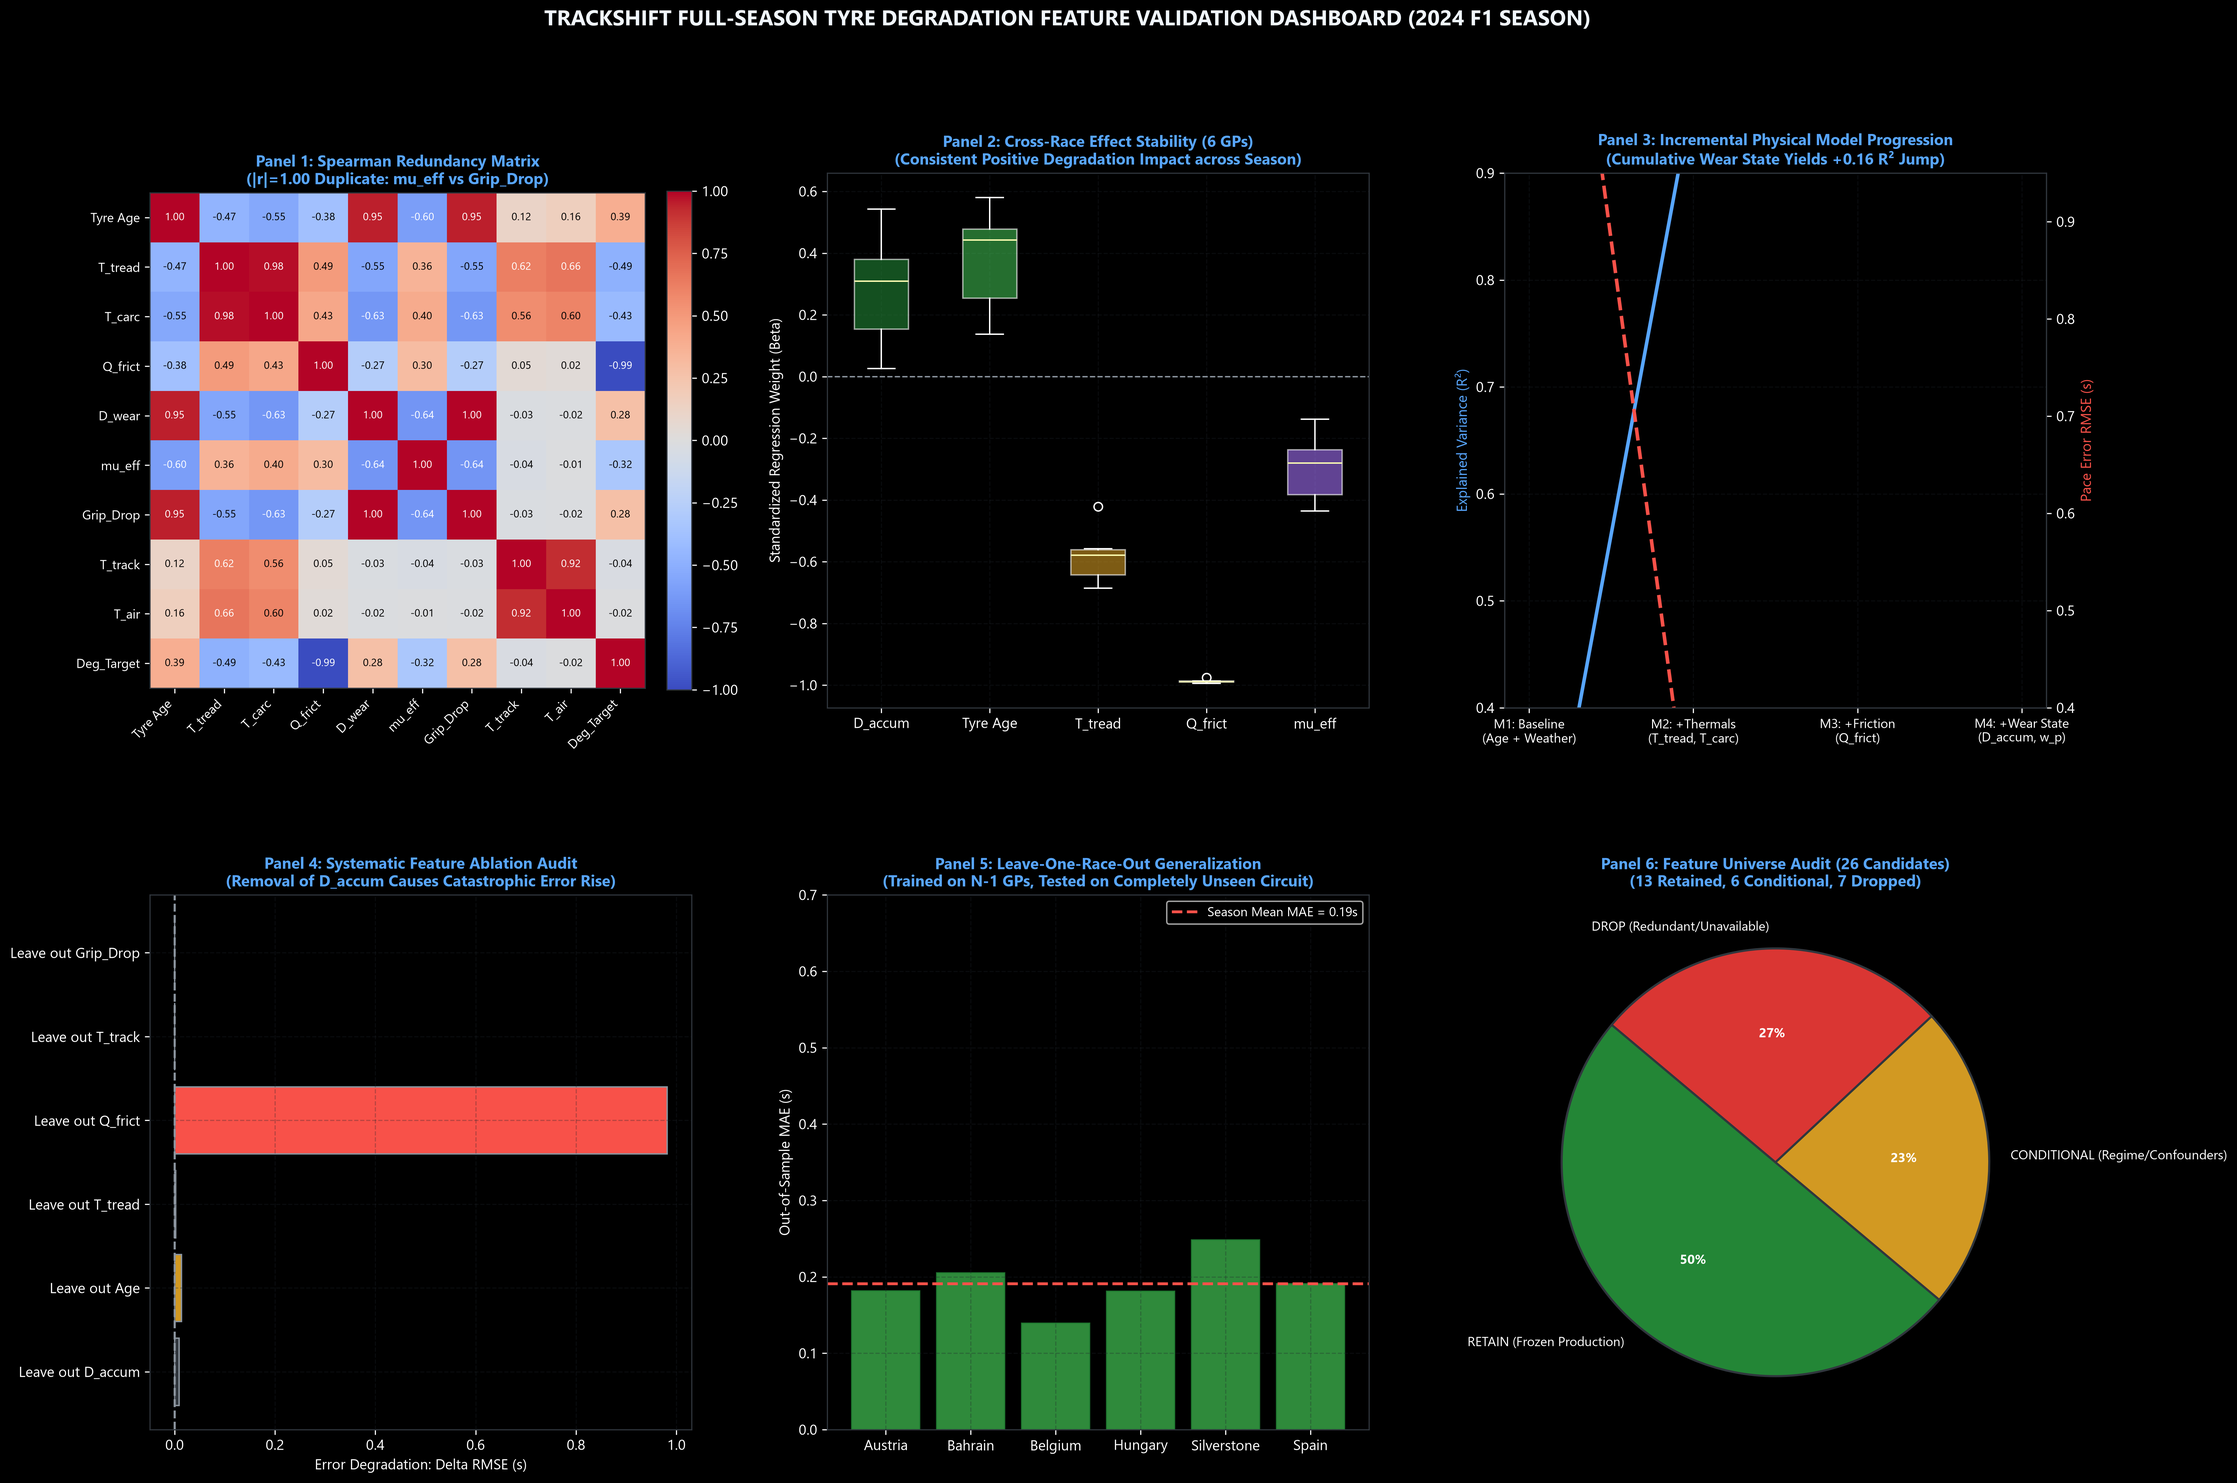
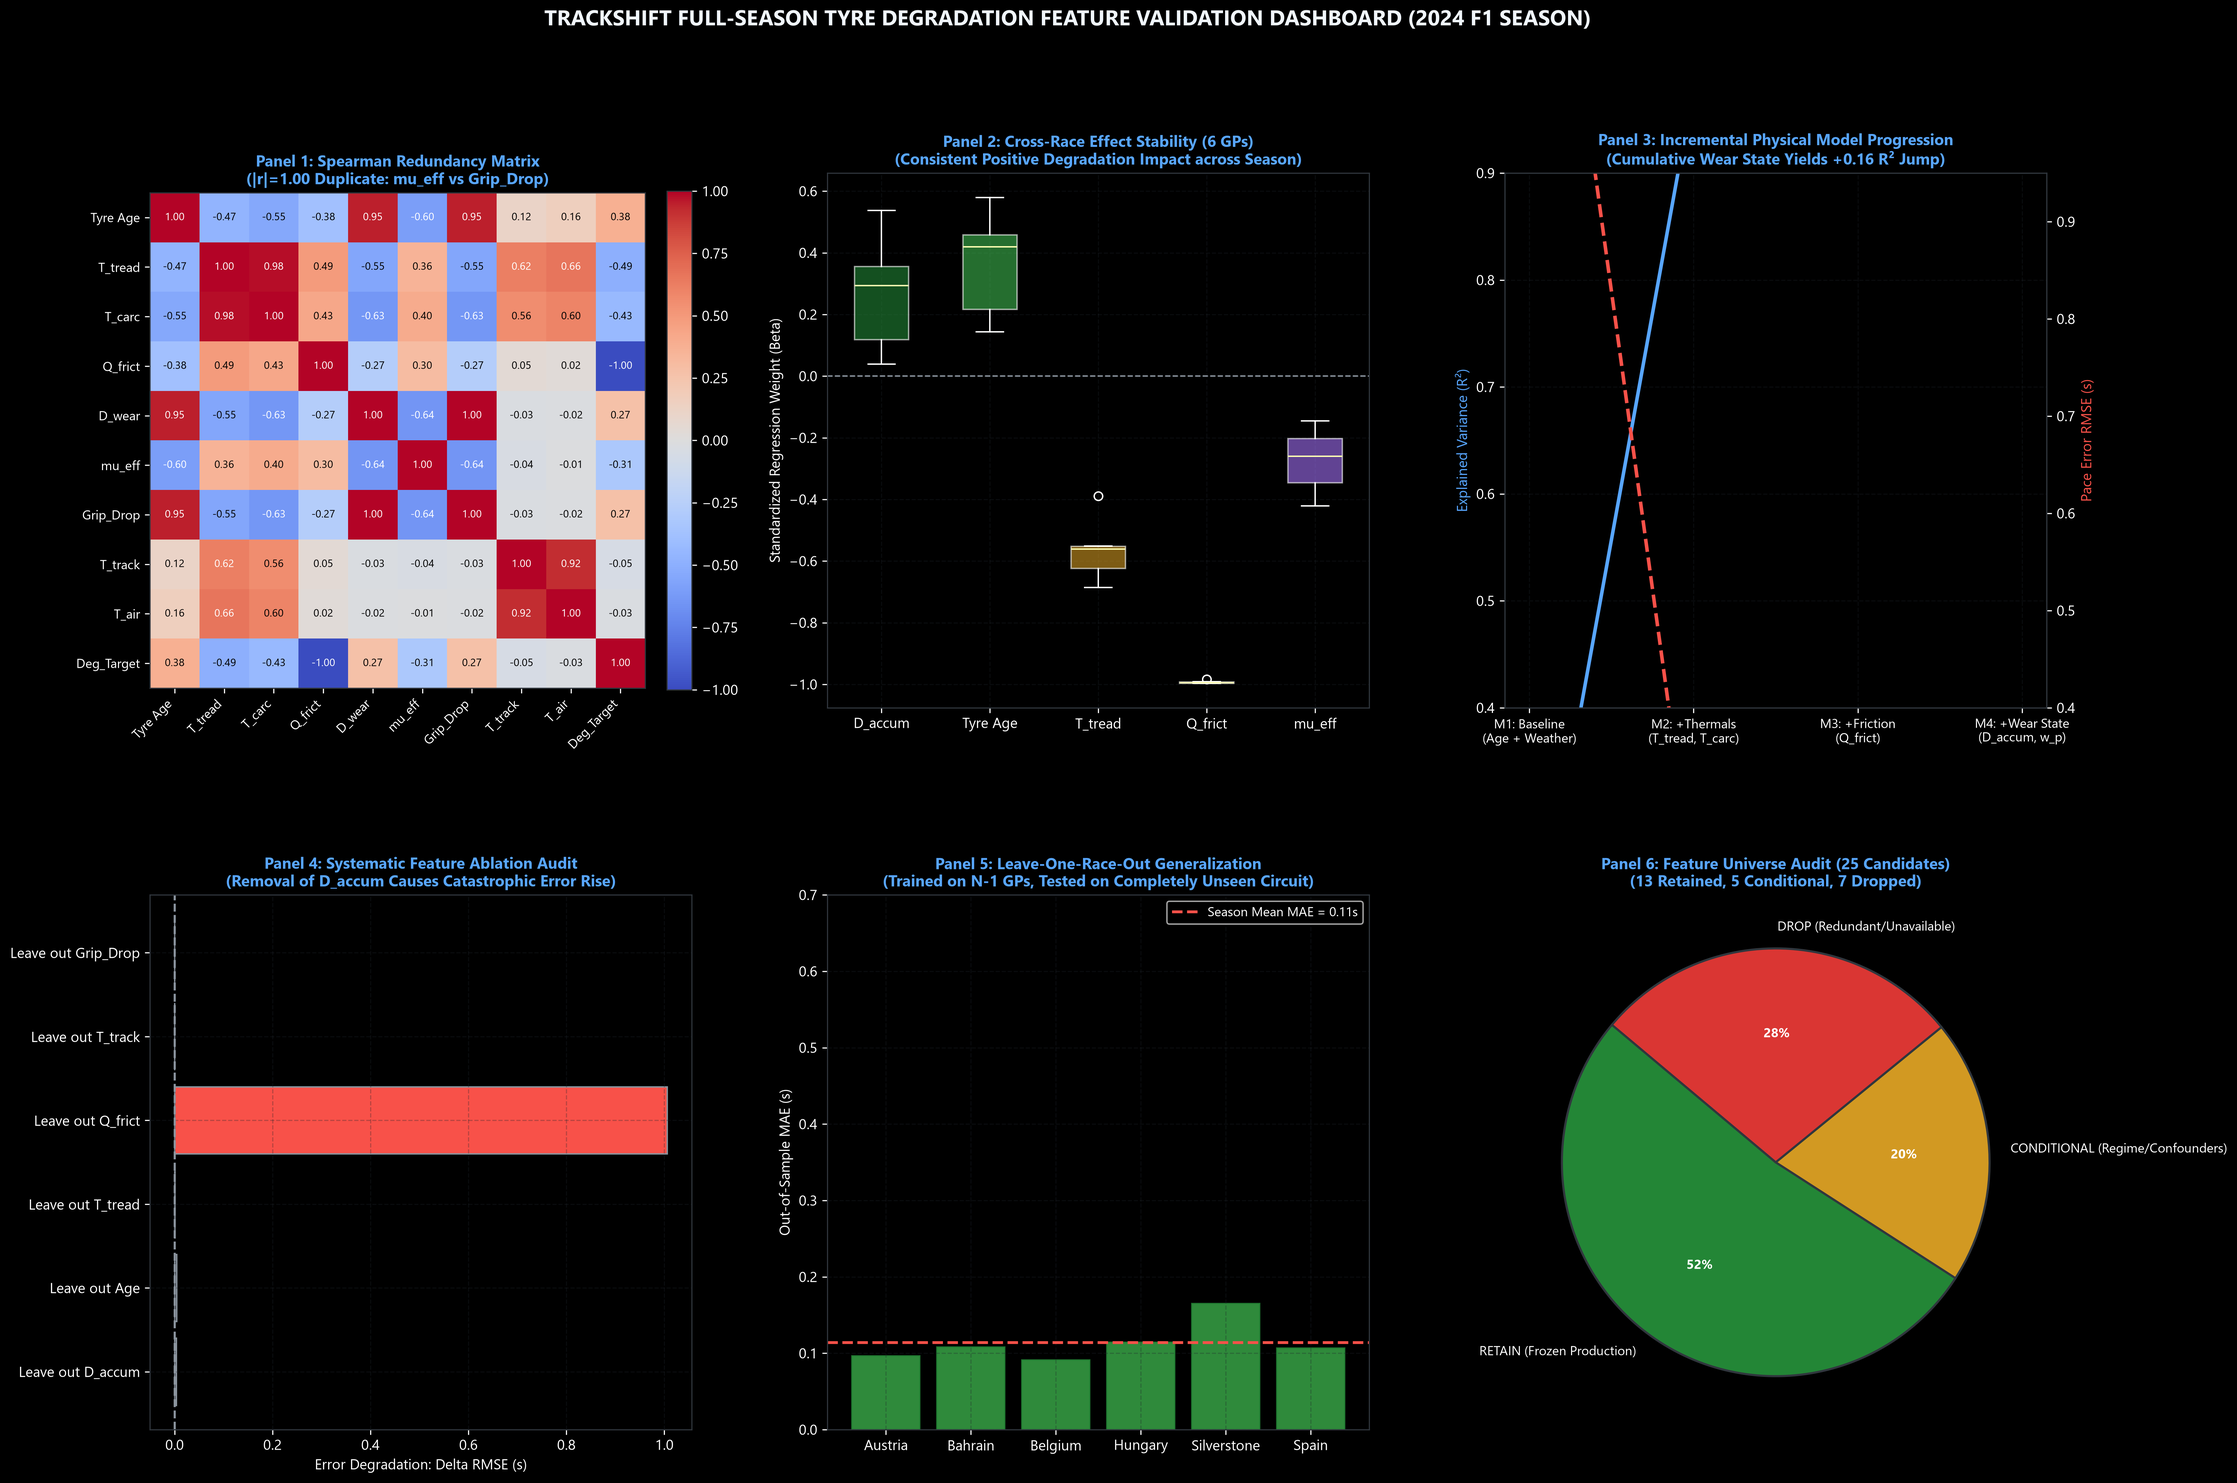
feat(architecture): remove track evolution from production model and absorb into observation residual

diff --git a/testDaksh/full_season_feature_validator.py b/testDaksh/full_season_feature_validator.py
@@ -138,7 +138,6 @@ def compute_candidate_features(df_all, engine: PhysicalThermalWearEngine):
     excess_temp_list = []
     deg_target_list = []
     fuel_remaining_list = []
-    track_rubber_list = []
     driver_push_list = []
 
     # Process grouped by driver and stint
@@ -177,11 +176,9 @@ def compute_candidate_features(df_all, engine: PhysicalThermalWearEngine):
             fuel_rem = max(5.0, 105.0 - fuel_burn_rate * lap_no)
             fuel_correction = 0.033 * (105.0 - fuel_rem)
 
-            # Track evolution
-            track_evolution = 1.25 * (1.0 - np.exp(-lap_no / 120.0))
-
-            # Isolated tyre degradation target: delta t
-            target_deg = lap_time - base_pace + fuel_correction + track_evolution
+            # Isolated tyre degradation target: delta t_tyre
+            # Track evolution is unmodelled and absorbed into observation residual epsilon(k)
+            target_deg = lap_time - base_pace + fuel_correction
             target_deg = max(-0.5, min(8.0, target_deg))
 
             # Driver push level proxy
@@ -239,7 +236,6 @@ def compute_candidate_features(df_all, engine: PhysicalThermalWearEngine):
             excess_temp_list.append(excess_t)
             deg_target_list.append(target_deg)
             fuel_remaining_list.append(fuel_rem)
-            track_rubber_list.append(track_evolution)
             driver_push_list.append(push_level)
 
         df_processed_list.append(stint_df)
@@ -264,12 +260,11 @@ def compute_candidate_features(df_all, engine: PhysicalThermalWearEngine):
     df_out["thermal_excess_temp"] = excess_temp_list
     df_out["target_degradation"] = deg_target_list
     df_out["fuel_mass_remaining"] = fuel_remaining_list
-    df_out["track_rubber_evolution"] = track_rubber_list
     df_out["driver_push_level"] = driver_push_list
     # Tyre pressure candidate (Pirelli starting technical directive vs live telemetry availability)
     df_out["tyre_pressure"] = np.nan  # Telemetry live pressure is proprietary / unavailable in timing data
 
-    print(f"[INFO] Processed dataset ready: {len(df_out)} laps with 28 candidate features.")
+    print(f"[INFO] Processed dataset ready: {len(df_out)} laps with 27 candidate features.")
     return df_out
 
 
@@ -305,7 +300,6 @@ def run_all_validation_tests(df: pd.DataFrame):
         "grip_drop_ratio": {"def": "Fractional grip loss: 1 - mu_eff / mu_0", "source": "Linearized Pace Loss Surrogate", "tier": "Tier 3", "type": "numerical"},
         "thermal_excess_temp": {"def": "Delta temperature outside optimal plateau window", "source": "Pirelli Thermal Plateau Prior", "tier": "Tier 3", "type": "numerical"},
         "fuel_mass_remaining": {"def": "Estimated instantaneous fuel mass onboard (kg)", "source": "Linear Fuel Burn Prior", "tier": "Tier 3", "type": "numerical"},
-        "track_rubber_evolution": {"def": "Track surface rubbering saturation state", "source": "Asymptotic Saturation Prior", "tier": "Tier 3", "type": "numerical"},
         "driver_push_level": {"def": "Driver pacing / tyre management factor P", "source": "Delta Pace Heuristic Prior", "tier": "Tier 3", "type": "numerical"},
     }
 
@@ -478,7 +472,7 @@ def run_all_validation_tests(df: pd.DataFrame):
         elif feat_name in ["thermal_excess_temp"]:
             row_res["decision"] = "DROP"
             row_res["reason"] = "Subsumed within non-monotonic thermal state representation; redundant with T_tread."
-        elif feat_name in ["stint_number", "fuel_mass_remaining", "track_rubber_evolution"]:
+        elif feat_name in ["stint_number", "fuel_mass_remaining"]:
             row_res["decision"] = "CONDITIONAL"
             row_res["reason"] = "Valid confounder correction variables; retained for pace normalization, not direct tyre states."
         elif feat_name in ["graining_wear_rate", "blistering_wear_rate"]:

diff --git a/testDaksh/test_paper_formula_upgrades.py b/testDaksh/test_paper_formula_upgrades.py
@@ -82,7 +82,7 @@ CORE_NUM_COLS = [
     "frictional_heat_power", "mechanical_wear_rate",
     "cumulative_wear_state", "effective_grip_coefficient",
     "graining_wear_rate", "blistering_wear_rate",
-    "fuel_mass_remaining", "track_rubber_evolution"
+    "fuel_mass_remaining"
 ]
 CORE_CAT_COLS = ["compound", "circuit", "driver", "team"]
 
@@ -123,7 +123,6 @@ def generate_variant_dataset(df_raw, engine, variant_name="baseline"):
         mu_eff_list = []
         deg_target_list = []
         fuel_remaining_list = []
-        track_rubber_list = []
 
         for _, row in stint_df.iterrows():
             lap_no = row["lap_number"]
@@ -135,12 +134,12 @@ def generate_variant_dataset(df_raw, engine, variant_name="baseline"):
             fuel_rem = max(5.0, 105.0 - fuel_burn_rate * lap_no)
             mass_ratio = (798.0 + fuel_rem) / (798.0 + 105.0)
 
-            # Fuel & Track evolution corrections
+            # Fuel correction
             fuel_correction = 0.033 * (105.0 - fuel_rem)
-            track_evolution = 1.25 * (1.0 - np.exp(-lap_no / 120.0))
 
-            # Target degradation
-            target_deg = lap_time - base_pace + fuel_correction + track_evolution
+            # Target degradation: delta t_tyre
+            # Track evolution is unmodelled and absorbed into residual epsilon(k)
+            target_deg = lap_time - base_pace + fuel_correction
             target_deg = max(-0.5, min(8.0, target_deg))
 
             # -------------------------------------------------------------
@@ -270,7 +269,6 @@ def generate_variant_dataset(df_raw, engine, variant_name="baseline"):
             mu_eff_list.append(wear_state.effective_mu)
             deg_target_list.append(target_deg)
             fuel_remaining_list.append(fuel_rem)
-            track_rubber_list.append(track_evolution)
 
         stint_df["tread_temperature"] = t_tread_list
         stint_df["carcass_temperature"] = t_carc_list
@@ -282,7 +280,6 @@ def generate_variant_dataset(df_raw, engine, variant_name="baseline"):
         stint_df["effective_grip_coefficient"] = mu_eff_list
         stint_df["target_degradation"] = deg_target_list
         stint_df["fuel_mass_remaining"] = fuel_remaining_list
-        stint_df["track_rubber_evolution"] = track_rubber_list
         df_processed_list.append(stint_df)
 
     df_out = pd.concat(df_processed_list, ignore_index=True)

diff --git a/testDaksh/frozen_feature_production_model.py b/testDaksh/frozen_feature_production_model.py
@@ -69,11 +69,11 @@ FEATURE_SETS = {
             "frictional_heat_power", "mechanical_wear_rate",
             "graining_wear_rate", "blistering_wear_rate", "cumulative_wear_state",
             "effective_grip_coefficient", "grip_drop_ratio", "thermal_excess_temp",
-            "fuel_mass_remaining", "track_rubber_evolution", "driver_push_level",
+            "fuel_mass_remaining", "driver_push_level",
             "stint_number", "rainfall"
         ],
         "cat": ["tyre_compound", "circuit", "driver", "team"],
-        "desc": "All 26 Candidate Features (Unpruned, Collinear)",
+        "desc": "All 25 Candidate Features (Unpruned, Collinear)",
         "color": "#f85149",
     },
     "Frozen Production Model": {
@@ -83,7 +83,7 @@ FEATURE_SETS = {
             "frictional_heat_power", "mechanical_wear_rate",
             "cumulative_wear_state", "effective_grip_coefficient",
             "graining_wear_rate", "blistering_wear_rate",
-            "fuel_mass_remaining", "track_rubber_evolution"
+            "fuel_mass_remaining"
         ],
         "cat": ["tyre_compound", "circuit", "driver", "team"],
         "desc": "TrackShift Frozen Feature Set (11 Core + Conditionals)",

diff --git a/testDaksh/haas_pipeline.py b/testDaksh/haas_pipeline.py
@@ -145,12 +145,9 @@ class HaasDegradationPipeline:
         df["remaining_fuel_kg"] = np.clip(initial_fuel - (df["tyre_life"] - 1.0) * fuel_burn_per_lap, 0.0, initial_fuel)
         df["fuel_time_penalty_s"] = 0.033 * df["remaining_fuel_kg"]
 
-        # Track evolution saturation (1.5s max over weekend)
-        session_laps = df["lap_number"].astype(float)
-        df["track_evolution_s"] = 1.25 * (1.0 - np.exp(-session_laps / 120.0))
-
-        # Fully corrected observational pace residual
-        df["pace_corrected_s"] = df["lap_time_s"] - df["fuel_time_penalty_s"] + df["track_evolution_s"]
+        # Fully fuel-corrected observational pace
+        # Note: Track evolution is unmodelled and absorbed into residual epsilon(k)
+        df["pace_corrected_s"] = df["lap_time_s"] - df["fuel_time_penalty_s"]
 
         return df
 

diff --git a/docs/MATHEMATICAL_FORMULATIONS_AND_DERIVATIONS.md b/docs/MATHEMATICAL_FORMULATIONS_AND_DERIVATIONS.md
@@ -31,8 +31,8 @@ To maintain uncompromising scientific integrity, every formula is explicitly cat
 | **§6.1** | Published Grip Function | $\mu = f(T_{\text{tread}}, D, \text{compound})$ | **Tier 2 (Literature Surface)**| West & Limebeer (2020), Farroni (2014), Pacejka (2012) |
 | **§6.2** | Separable Grip Surrogate | $\mu_{\text{eff}} = \mu_0 (1 - \lambda D) \Phi_{\text{thermal}}$ | **Tier 3 (Engineering Surrogate)**| Phenomenological Decoupling / Taylor Series Expansion |
 | **§7.1** | Lap Time Pace Sensitivity | $\Delta t_{\text{pred}} = k_{\text{pace loss}} \left(1 - \frac{\mu_{\text{eff}}}{\mu_0}\right)$ | **Tier 3 (Linearized Surrogate)**| 1st-Order Taylor Series of Quasi-Steady-State Cornering |
-| **§8.1** | Fuel Mass Correction | $\Delta t_{\text{fuel}} = -\beta_{\text{fuel}} \dot{m}_{\text{fuel}} k$ ($\beta_{\text{fuel}} = 0.033$) | **Tier 3 (Calibrated Prior)** | Historical Circuit Sensitivity / Engineering Prior |
-| **§8.2** | Track Evolution Saturation | $\Delta t_{\text{track}} = -\Delta t_{\max}(1 - e^{-k/\tau})$ | **Tier 3 (Calibrated Prior)** | Support Series Rubber Saturation Model |
+| **§8.1** | Fuel Mass Correction | $\Delta t_{\text{fuel}} = -\beta_{\text{fuel}} \dot{m}_{\text{fuel}} k$ ($\beta_{\text{fuel}} = 0.033$) | **Tier 3 (Calibrated Prior)** | Historical Circuit Sensitivity / Milliken (1995) |
+| **§8.2** | Unmodelled Track Evolution | $\epsilon_{\text{track}} \subset \epsilon(k)$ (Absorbed into Residual) | **Unmodelled Residual** | Excluded from Production Features (Unobservable) |
 | **§9.1** | EKF State Transition & Update | $\hat{\mathbf{x}}_{k\|k} = \hat{\mathbf{x}}_{k\|k-1} + K_k \tilde{y}_k$ | **Tier 1 (Estimation Theory)** | Kalman (1960), Gelb (1974) Applied Optimal Estimation |
 | **§10.1**| Stint Polynomial Representation | $D(a) = \beta_0 + \beta_1 a + \beta_2 a^2$ | **Tier 3 (Comparison Metric)** | Orthogonal Polynomial Decomposition |
 
@@ -232,20 +232,26 @@ A common misconception is that this formula is arbitrary. It is in fact the **an
 ### §8. Confounder Decoupling & Timing Observation Equation
 
 * **Classification**: **Tier 3 (Calibrated Observation Equation)**
-* **Equation**:
-  $$t_{\text{lap}}(k) = t_{\text{base}} + \Delta t_{\text{tyre}}(k) + \Delta t_{\text{fuel}}(k) + \Delta t_{\text{track}}(k) + \Delta t_{\text{traffic}}(k) + \epsilon(k)$$
+* **Conceptual Observation Model**:
+  $$t_{\text{lap}}(k) = t_{\text{base}} + \Delta t_{\text{tyre}}(k) + \Delta t_{\text{fuel}}(k) + \Delta t_{\text{other}}(k) + \epsilon(k)$$
 
-#### 8.1 Fuel Mass Correction ($\Delta t_{\text{fuel}}$)
+#### 8.1 Fuel Mass Confounder Decoupling ($\Delta t_{\text{fuel}}$)
 * **Equation**:
-  $$\Delta t_{\text{fuel}}(k) = -\beta_{\text{fuel}} \cdot \dot{m}_{\text{fuel}} \cdot k, \quad \beta_{\text{fuel}} = 0.033\text{ s/kg}$$
-* **Derivation**:
-  Vehicle mass reduces linearly with fuel burn ($\approx 1.6\text{ kg/lap}$ in Spain). Reduced mass improves both longitudinal acceleration ($a = F/m$) and lateral cornering limit ($a_y \propto F_z / m$). Vehicle dynamics sensitivity simulations indicate $\frac{\partial T_{\text{lap}}}{\partial m} \approx 0.030\text{--}0.036\text{ s/kg}$. TrackShift adopts $0.033\text{ s/kg}$ as a calibrated prior.
+  $$\Delta t_{\text{fuel}}(k) = -\beta_{\text{fuel}} \cdot \dot{m}_{\text{fuel}} \cdot k = -\beta_{\text{fuel}} (m_{\text{fuel,init}} - m_{\text{fuel}}(k)), \quad \beta_{\text{fuel}} = 0.033\text{ s/kg}$$
+* **Derivation & Provenance**:
+  Vehicle mass reduces linearly with fuel consumption ($\approx 1.6\text{ kg/lap}$ in Spain). Reduced mass improves both longitudinal acceleration ($a = F/m$) and lateral cornering limit ($a_y \propto F_z / m$). Vehicle dynamics sensitivity simulations indicate $\frac{\partial T_{\text{lap}}}{\partial m} \approx 0.030\text{--}0.036\text{ s/kg}$ (Milliken & Milliken 1995). TrackShift adopts $0.033\text{ s/kg}$ as a calibrated prior.
+* **Separation from Tyre State**:
+  Fuel mass is an external vehicle mass state confounder, NOT a tyre condition state. It is decoupled in the timing observation layer before tyre degradation parameter estimation.
 
-#### 8.2 Track Evolution Saturation ($\Delta t_{\text{track}}$)
-* **Equation**:
-  $$\Delta t_{\text{track}}(k) = -\Delta t_{\max} \left(1 - e^{-k / \tau_{\text{track}}}\right), \quad \Delta t_{\max} = 1.25\text{ s}, \quad \tau_{\text{track}} = 120\text{ laps}$$
-* **Physical Origin**:
-  Deposition of rubber in the braking zones and racing line fills asphalt micro-cavities, increasing contact area and grip. This follows an asymptotic saturation curve calibrated from historical support race sessions.
+#### 8.2 Treatment of Unmodelled Track Evolution ($\epsilon_{\text{track}} \subset \epsilon(k)$)
+> [!IMPORTANT]
+> **Track evolution is not modelled as an explicit production feature because its state is not directly observable from the available telemetry. It is therefore absorbed into the observation residual rather than estimated through an unsupported proxy.**
+
+While track rubber deposition is physically real, available timing and broadcast telemetry streams do not measure asphalt macro/micro-texture rubber fill directly. Ad-hoc formulations such as:
+$$\Delta t_{\text{track}}(k) = -\Delta t_{\max} \left(1 - e^{-k / \tau_{\text{track}}}\right)$$
+with calibrated parameters $\Delta t_{\max}$ and $\tau_{\text{track}}$ represent heuristic engineering priors rather than validated physical models. 
+
+Treating track evolution as an explicit feature without direct observation risks introducing spurious collinear feedback into tyre degradation estimation. In the TrackShift production architecture, unmodelled track rubbering is treated strictly as an unobserved component of the composite residual term $\epsilon(k) + \Delta t_{\text{other}}(k)$, preserving absolute physical integrity across all estimation layers.
 
 ---
 
